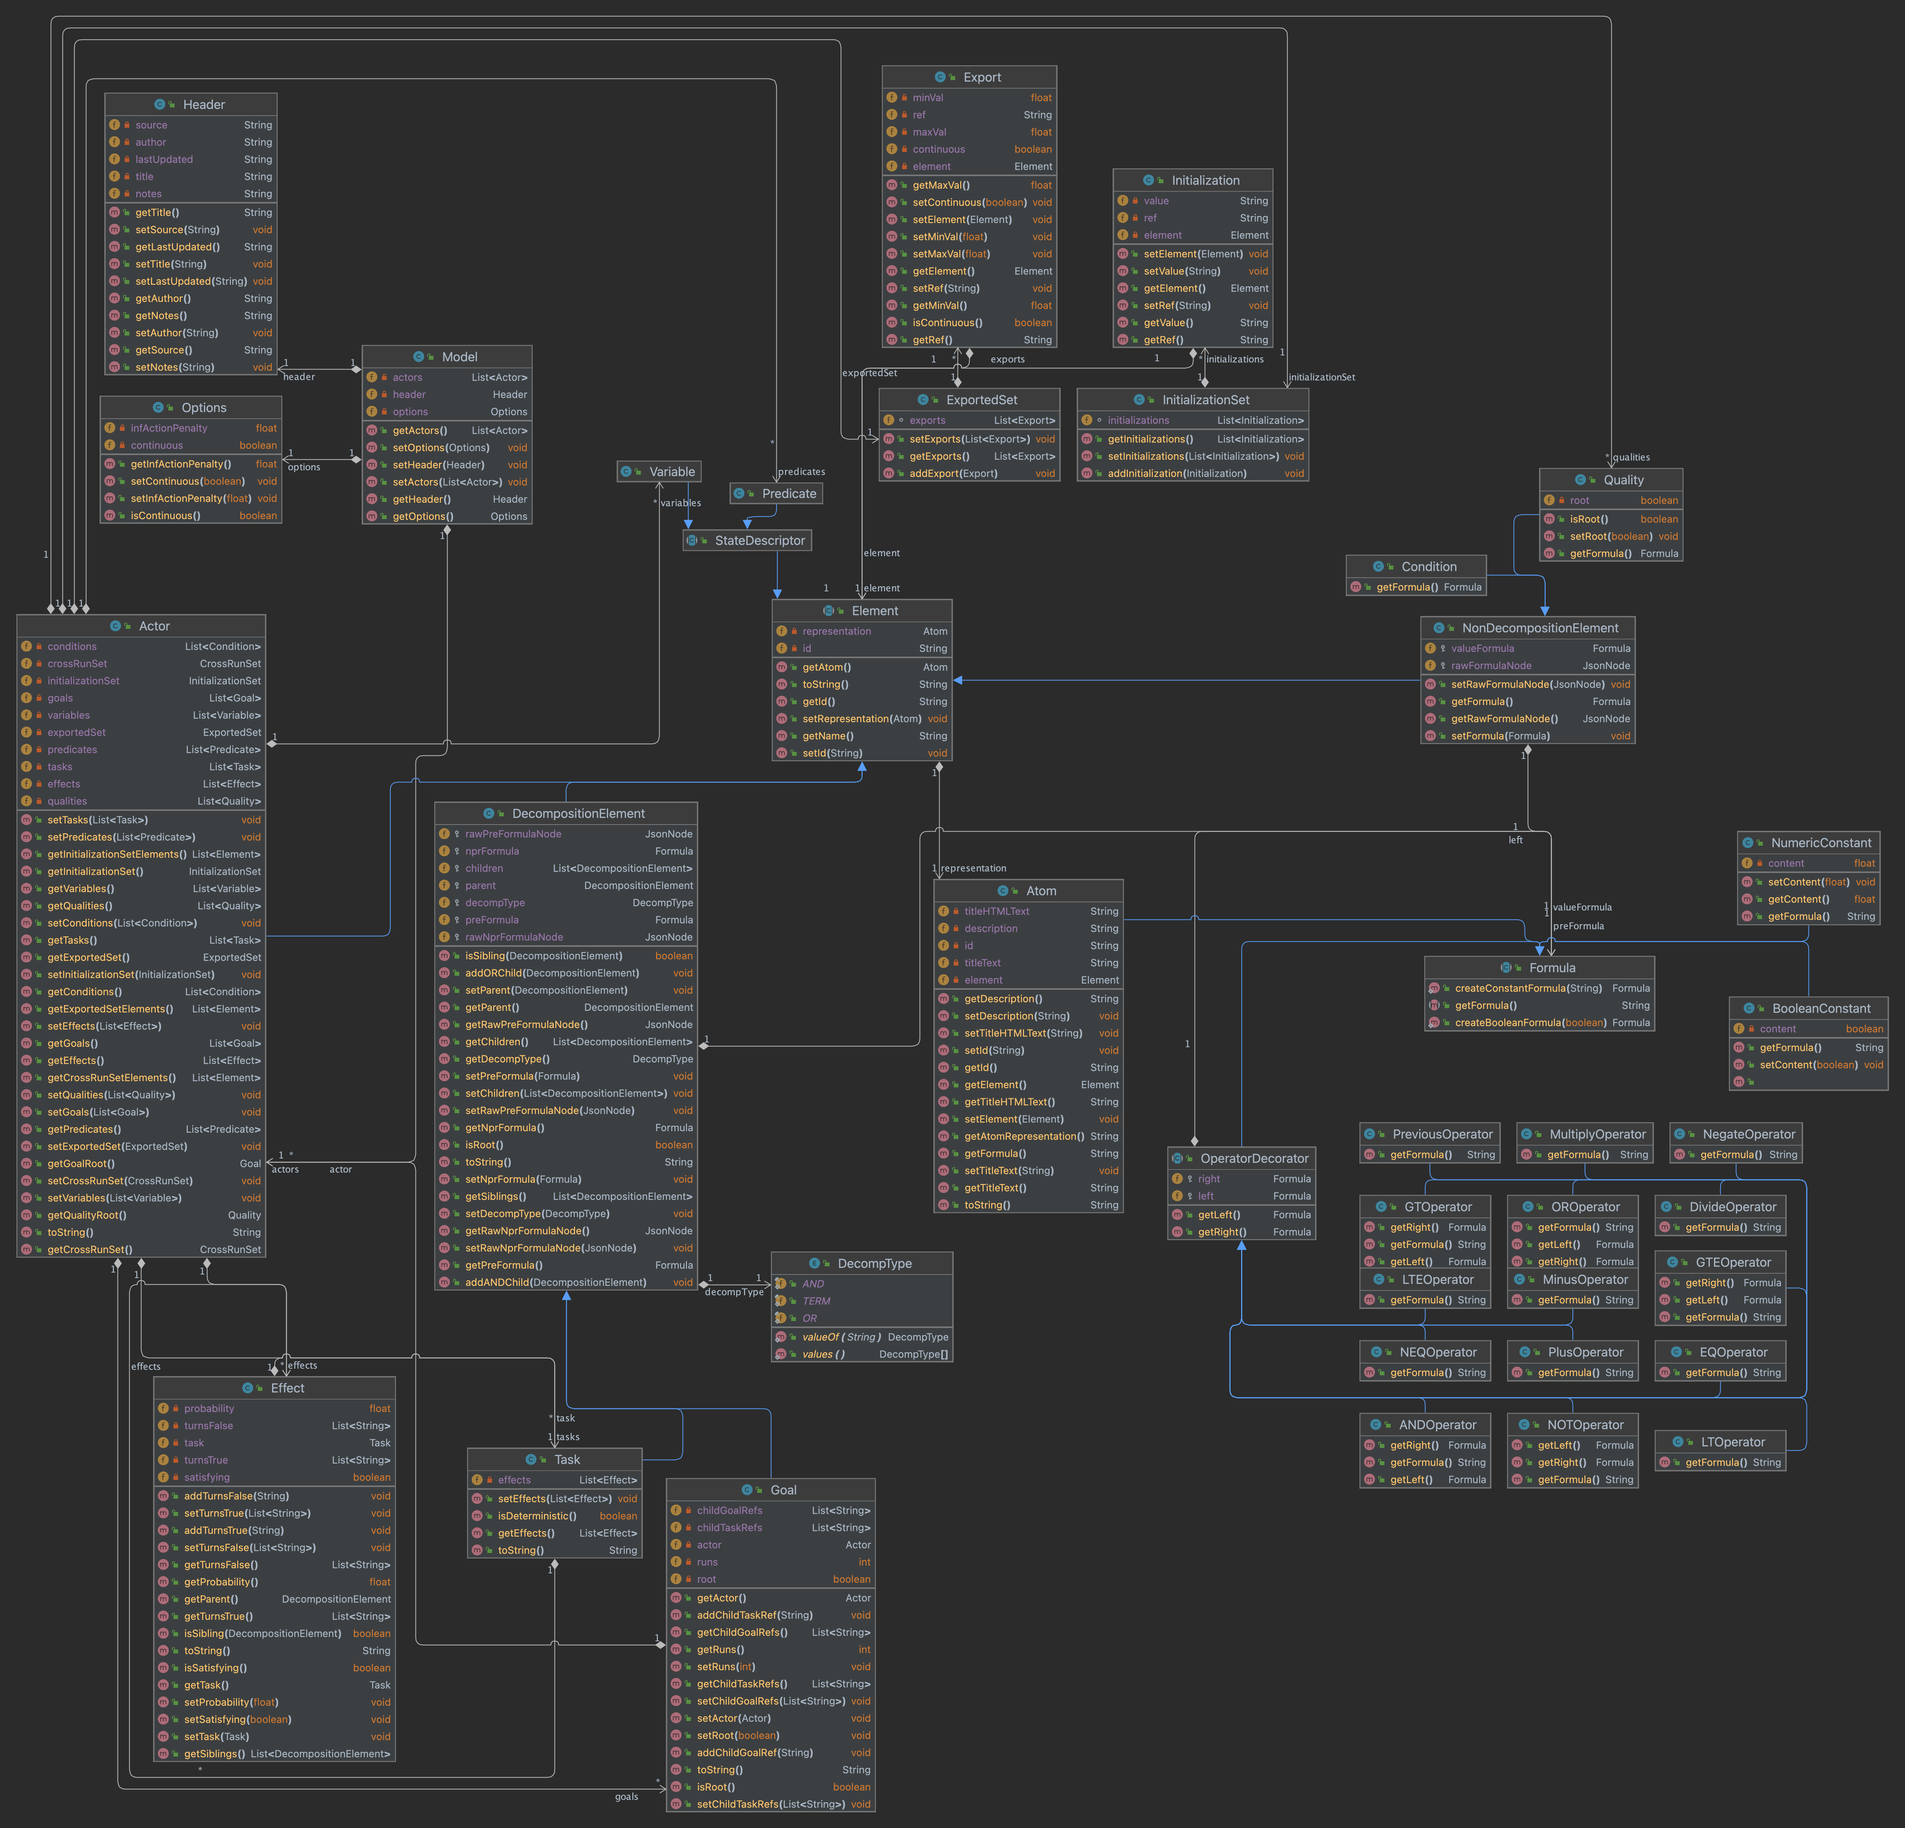
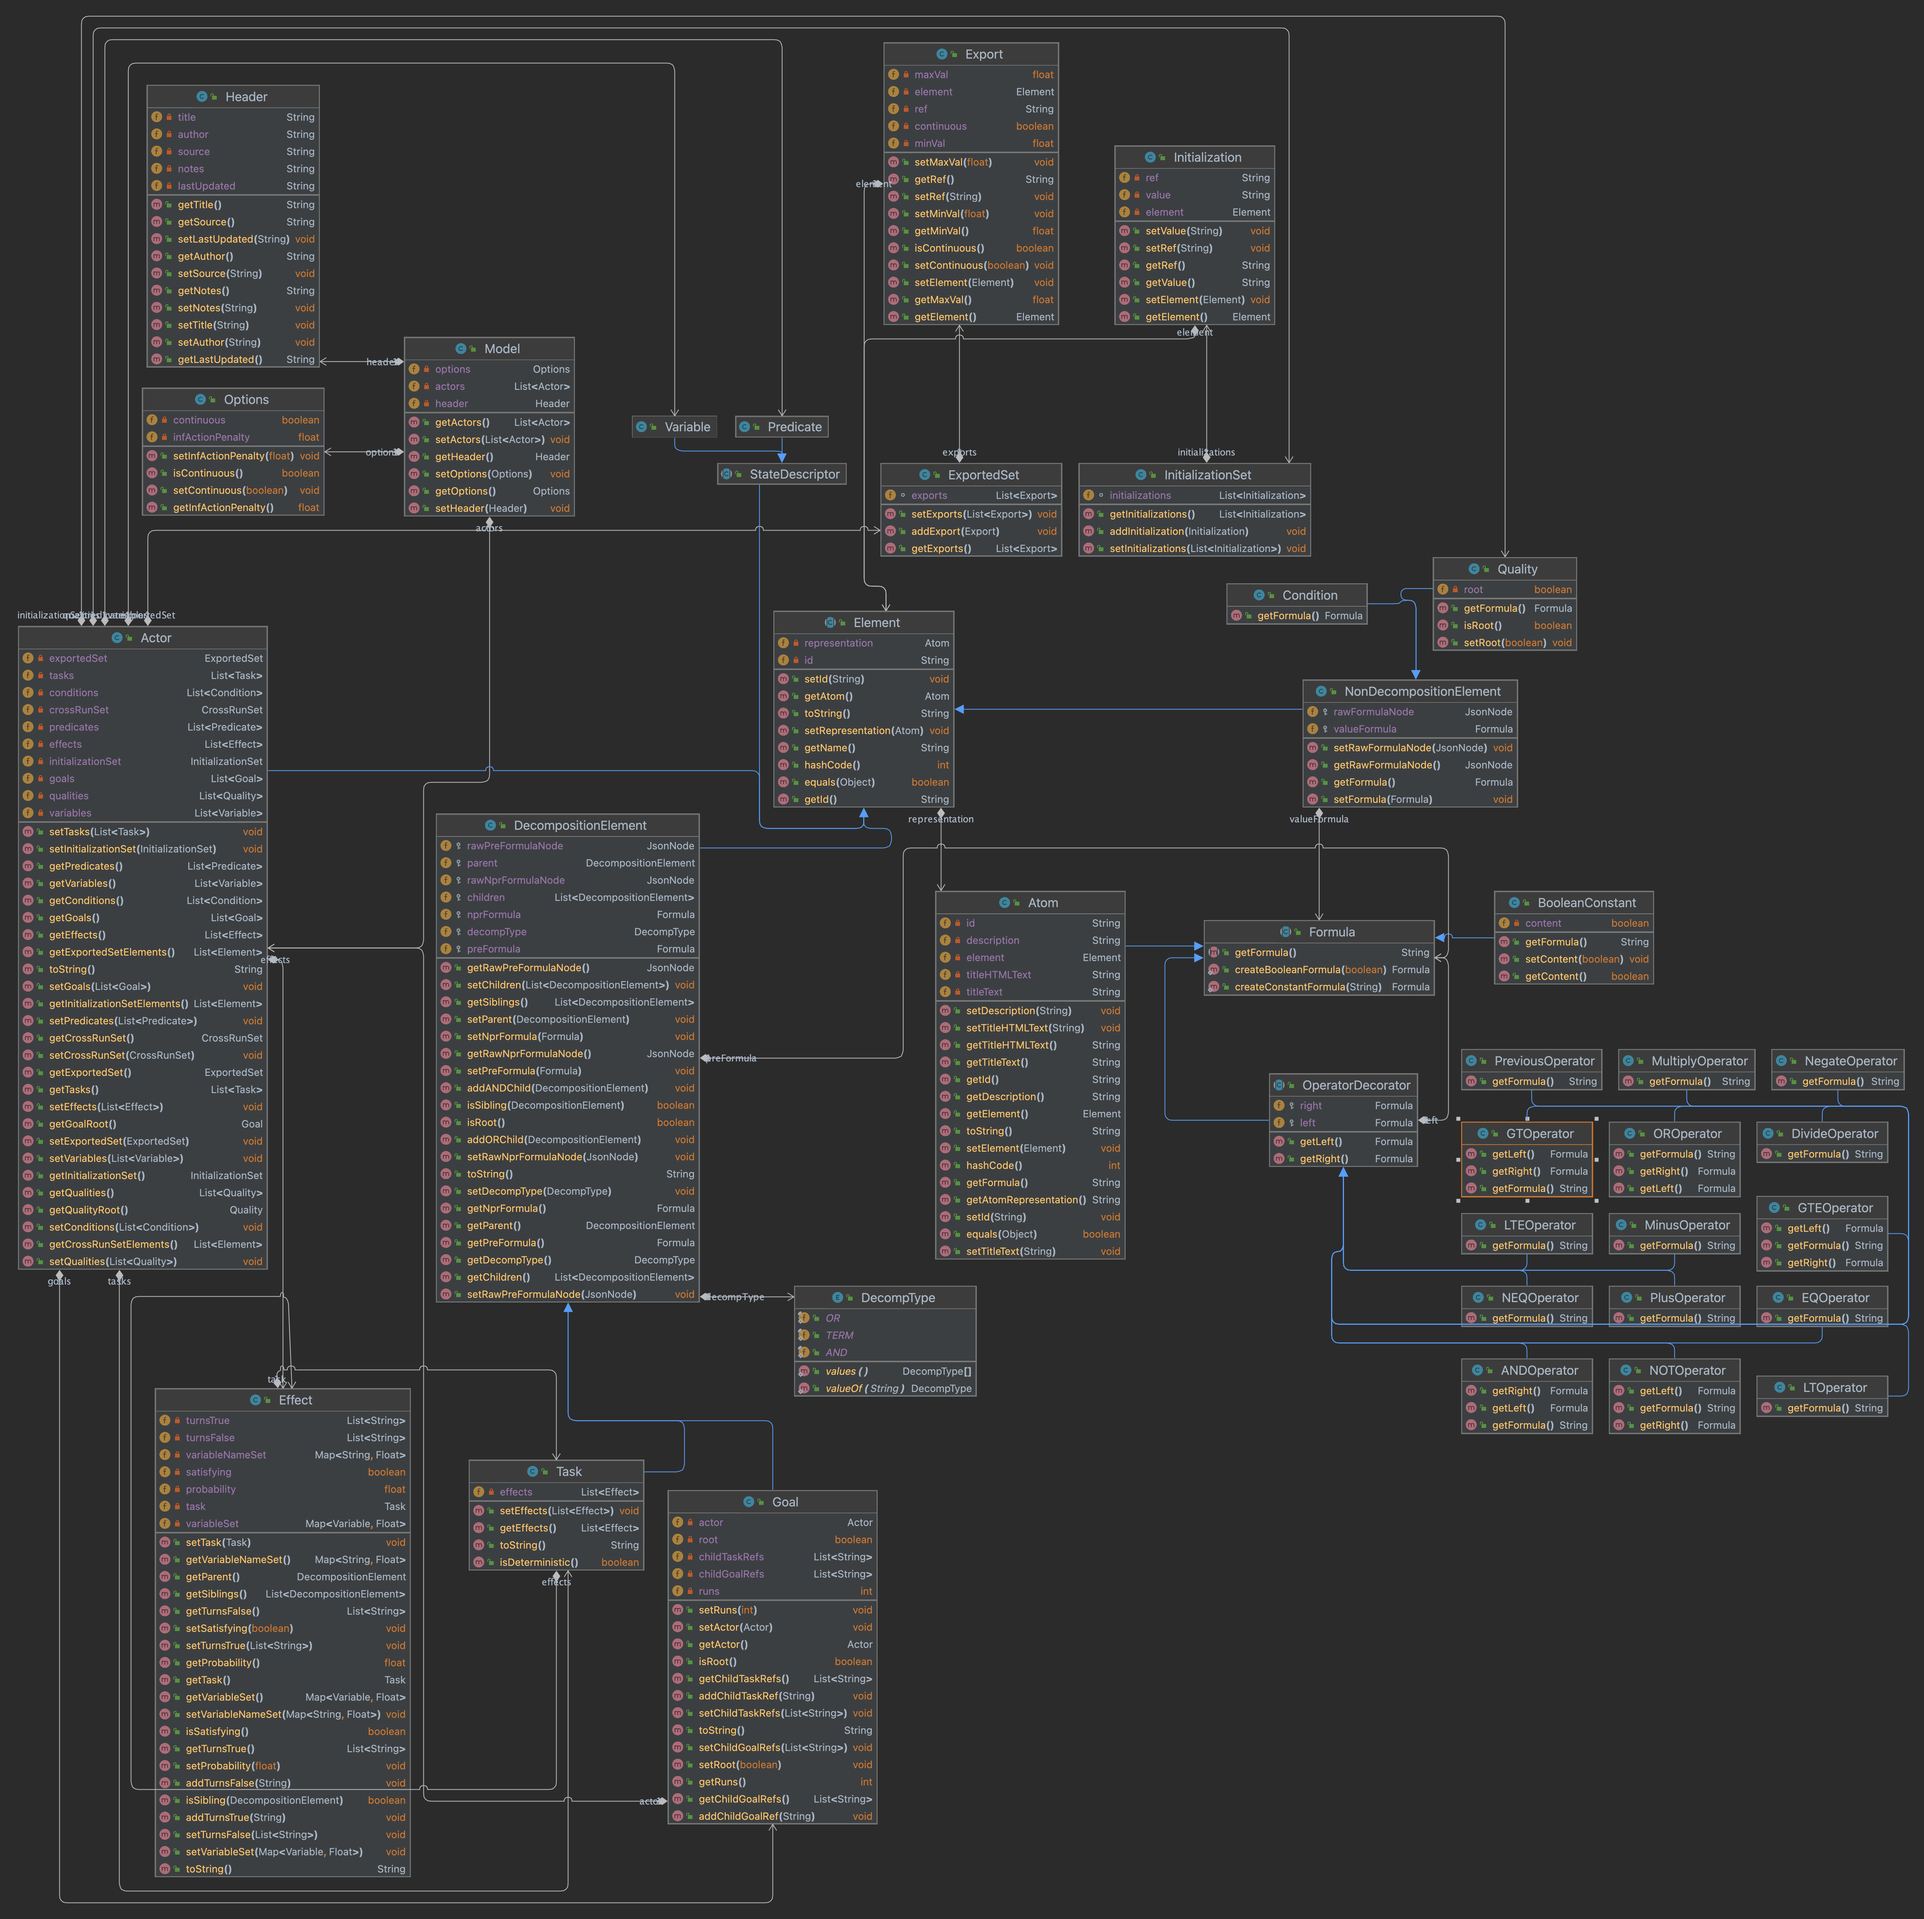
Add effect set to UML and grammar

diff --git a/docs/bnf_grammar.md b/docs/bnf_grammar.md
@@ -78,9 +78,10 @@
 [task-content] ::= [effectGroup] [ [pre] ] [ [npr] ]
 [effectGroup] ::= "<effectGroup>" [effect]+ "</effectGroup>"
 [effect] ::= "<effect name=‘" [identifier] "’" [ " satisfying=‘" [boolean] "’" ] " probability=‘" [decimal] "’" [ " description=‘" [string] "’" ] ">" [effect-content] "</effect>"
-[effect-content] ::= [ [turnsTrue]* ] [ [turnsFalse]* ] [ [pre] ] [ [npr] ]
+[effect-content] ::= [ [turnsTrue]* ] [ [turnsFalse]* ] [ [sets]*] [ [pre] ] [ [npr] ]
 [turnsTrue] ::= "<turnsTrue>" [identifier] "</turnsTrue>"
 [turnsFalse] ::= "<turnsFalse>" [identifier] "</turnsFalse>"
+[sets] ::= "<set>" [variable-id] [num-const] "</set>"
 ```
 
 
